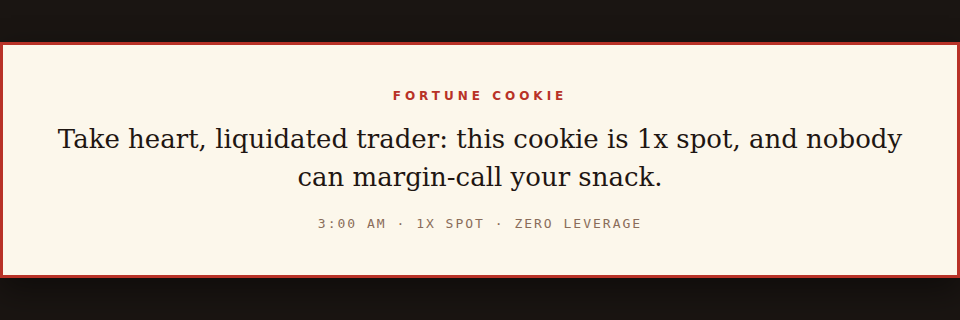
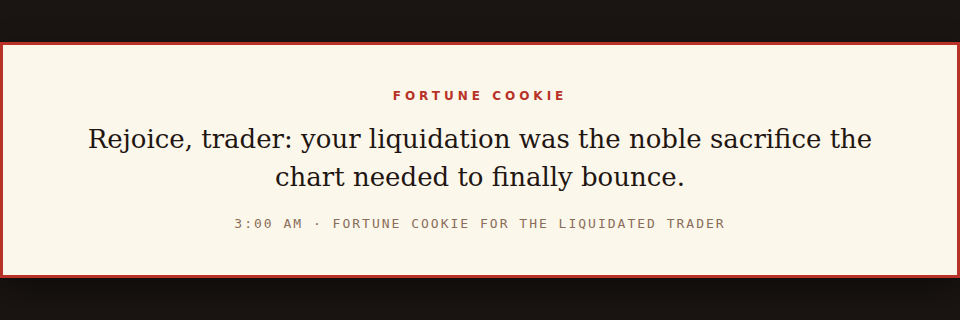
Switch to noble-sacrifice chart bounce fortune

Changed region(s): [[0.0625, 0.4062, 0.9375, 0.4688], [0.2812, 0.5, 0.7188, 0.5938], [0.25, 0.6875, 0.75, 0.7188]]

diff --git a/main.ts b/main.ts
@@ -1,7 +1,7 @@
 import { mkdirSync, writeFileSync } from "node:fs";
 
 const FORTUNE =
-  "Take heart, liquidated trader: this cookie is 1x spot, and nobody can margin-call your snack.";
+  "Rejoice, trader: your liquidation was the noble sacrifice the chart needed to finally bounce.";
 
 mkdirSync("/output", { recursive: true });
 writeFileSync("/output/entry.txt", `${FORTUNE}\n`, "utf8");
